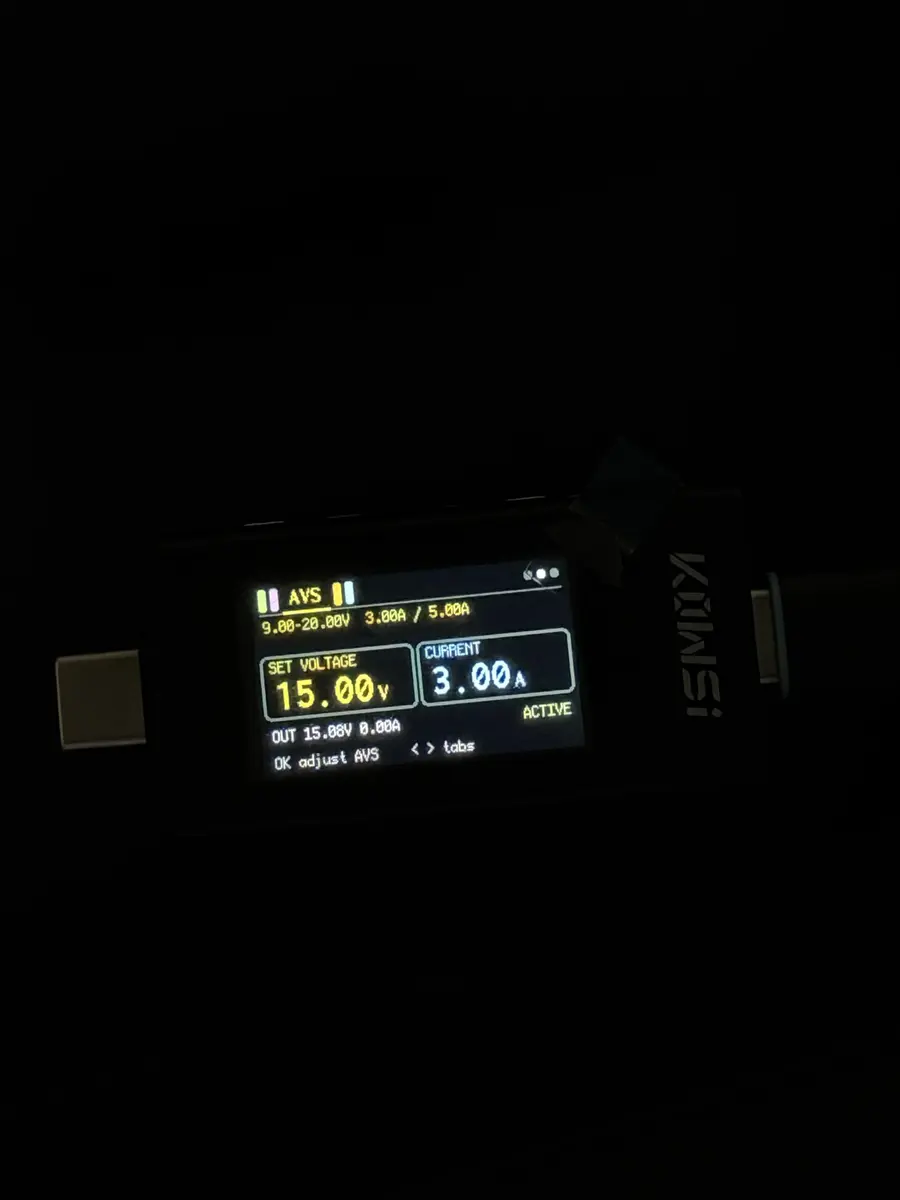
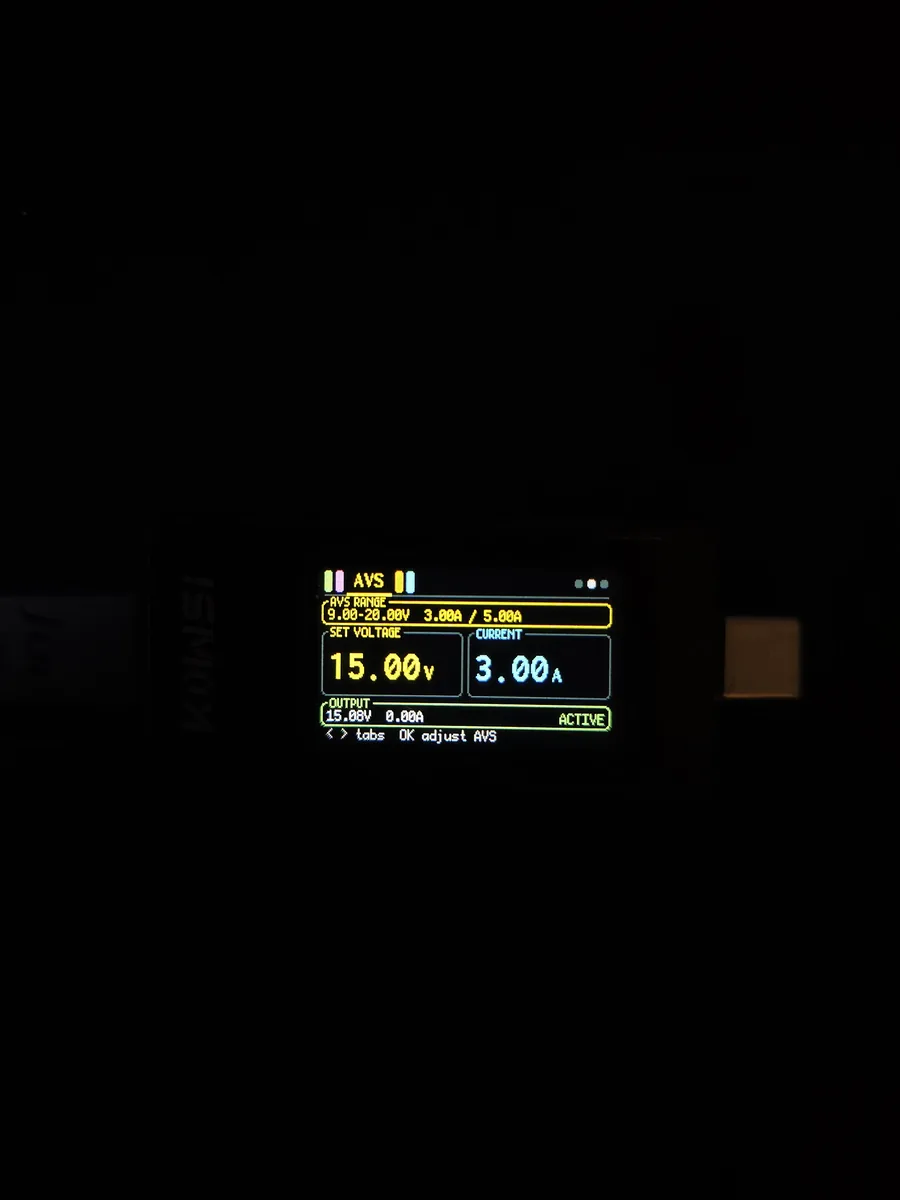
docs: retake the screen photos and fix stale readme details

Changed region(s): [[0.28, 0.4625, 0.6844, 0.6475], [0.7467, 0.4625, 0.9022, 0.6167], [0.0622, 0.5242, 0.1867, 0.6475]]

diff --git a/README.md b/README.md
@@ -106,7 +106,10 @@ This is **kws-x1-standalone-rs**.
 - Passthrough mode: listens to the PD messages between a charger and a device
   without taking part.
 - Brightness and auto-rotation, saved to flash.
-- Ah/Wh totals on every page, with optional energy memory: Off, 5s, 10s, 30s or 60s.
+- Charge (Ah), energy (Wh) and the time since the last reset, counted
+  whichever page shows, and optionally kept across restarts (energy memory:
+  Off, 5s, 10s, 30s or 60s).
+- A power, voltage or current graph over the last 1, 2, 5 or 10 minutes.
 
 ## Limitations
 
@@ -122,9 +125,7 @@ What this firmware does **not** do, for now:
   AVS up to 30 V can be selected with a real EPR cable. Fixed 36/48 V remain
   informational only. The fake marker remains 20 V/non-EPR. Keep-alive timing
   under display load still requires hardware verification.
-- **SPR AVS lightly tested, the battery readout untested.** A user
-  confirmed an SPR AVS contract on one charger (9-20 V range, 15 V set,
-  `ACTIVE`, no load). The battery readout is built from the USB PD 3.2
+- **The battery readout is untested.** It is built from the USB PD 3.2
   specification and checked in the library tests, but no battery-reporting
   power bank has been tried yet.
 - **Quick Charge partly tested.** Tested on one Quick Charge 3.0 Class A
@@ -144,8 +145,9 @@ What this firmware does **not** do, for now:
 - **The 5 A cable test is non-standard**, and works only with the meter's plug
   straight in the charger. See
   [Full charger offer and 5 A without a cable](#full-charger-offer-and-5-a-without-a-cable).
-- **No timer, no recording**, and no USB data connection to a computer or
-  app.
+- **No recording.** The graph keeps ten minutes in RAM only; nothing is
+  logged to flash or exported, and there is no USB data connection to a
+  computer or app.
 - **No calibration setting.** The measurement uses a fixed sensor calibration.
   The line voltages use an internal reference of 1083 mV, the stock
   firmware's value, rather than the reference manual's "about 1.1 V"
@@ -222,7 +224,7 @@ point the way it flows (they follow the screen rotation).
 
 | Page | Shows | Buttons |
 | ---- | ----- | ------- |
-| **Overview** | voltage, current, power; the highest of each since boot (`MAX`); protocol (`USB`, `TYPE-C`, `PD 2.0`, `PD 3.0`, `PPS`, `AVS`, `QC 2.0`, `QC 3.0`, `DIVIDER`, `1.2V DCP`, `BC1.2`) with the CC pin and contract; flow chevrons; a heartbeat dot | hold OK: reset `MAX`; Back: settings |
+| **Overview** | voltage, current, power; the highest of each since boot while a live page shows (`MAX`); protocol (`USB`, `TYPE-C`, `PD 2.0`, `PD 3.0`, `PPS`, `AVS`, `QC 2.0`, `QC 3.0`, `DIVIDER`, `1.2V DCP`, `BC1.2`) with the CC pin and contract; flow chevrons; a heartbeat dot | hold OK: reset `MAX`; Back: settings |
 | **Lines** | D+, D-, CC1 and CC2 voltages | |
 | **Energy** | charge (Ah), energy (Wh) and the time since the last reset; how the totals are kept | hold OK: reset the totals |
 | **Graph** | power, voltage or current over the last 1, 2, 5 or 10 minutes; the latest second's and the window's highest voltage, current and power | OK, Left/Right choose power, voltage or current, OK, Left/Right change the window, OK done; Back closes; hold OK: clear the graph |
@@ -310,8 +312,9 @@ While Left/Right move between groups, every hint row reads
 `< > groups  OK tabs`. The scrolling screens (PD Session, Charger, Cable,
 System, PD Sniff) share one hint row: `< > tabs  OK scroll`, then
 `< > scroll  OK done` while scrolling, or `< > tabs  BACK groups` when
-everything fits on one screen. Charger and Cable add their hold action:
-`hold OK scan` and `hold OK read`.
+everything fits on one screen. Charger and Cable add their hold action,
+`hold OK scan` and `hold OK read`, which replaces `BACK groups` when
+everything fits.
 
 Every hint row lists its buttons in the same order: Left/Right first, then
 OK, then a hold or Back, then any note, so on a tab it always starts with
@@ -332,8 +335,10 @@ use in the `PROTOCOL` strip along the bottom. The meter starts on it.
 - **`CURRENT`**: current in amperes, as a magnitude, whichever way it flows.
 - **`POWER`**: voltage × current, in watts.
 - **`MAX`**: the highest voltage, current and power seen since power-up or
-  the last reset. Hold OK: the card fills from left to right and the values
-  reset once it is full; let go earlier to keep them.
+  the last reset, counted while the overview, the graph or a Trigger page
+  shows (the pages with live readings). Hold OK: the card fills from left
+  to right and the values reset once it is full; let go earlier to keep
+  them.
 - **Protocol** (left in the `PROTOCOL` strip, which takes its colour): the
   first of these that applies.
   - `QC 2.0` / `QC 3.0`: this meter's Quick Charge request, while the
@@ -390,7 +395,9 @@ screen shows, or while Quick Charge runs.
   measured on one unit, and another unit's may differ by a few percent (see
   [Limitations](#limitations)).
 
-#### Energy
+#### 3. Energy
+
+<img src="pictures/energy_screen.webp" width="360" alt="Energy screen">
 
 The **Energy** screen (tab `ENERGY` in Monitor, after Lines) shows, in three
 outlined cards, **CHARGE** in Ah and **ENERGY** in Wh, with three decimals, and
@@ -405,7 +412,9 @@ checkpoint interval), `flash taken` or `save failed`, for example
 `< > tabs  hold OK reset  save 5s`. To start fresh, hold OK: the cards fill
 from left to right and reset once full.
 
-#### Graph
+#### 4. Graph
+
+<img src="pictures/graph_screen.webp" width="360" alt="Graph screen">
 
 The **Graph** screen (tab `GRAPH` in Monitor, after Energy) plots power
 (at first, green), voltage (yellow) or current (cyan) over the last
@@ -434,7 +443,7 @@ covers, so a short peak stays visible.
 The history is kept in RAM only (ten minutes, about 7 KB): it costs no
 flash writes, and a restart clears it and comes back on the overview.
 
-#### 3. PD Profiles
+#### 5. PD Profiles
 
 <img src="pictures/pd_profiles_screen.webp" width="360" alt="PD Profiles screen">
 
@@ -462,7 +471,7 @@ charger's fixed profiles, to request one.
   `EPR: unknown failure`, `EPR: timeout / bad reply` or
   `EPR: line busy, retry OK`.
 
-#### 4. PPS
+#### 6. PPS
 
 <img src="pictures/pps_screen.webp" width="360" alt="PPS screen">
 
@@ -472,7 +481,8 @@ programmable ranges, to request a voltage and current limit.
 - **`PPS RANGE`**: each PPS range the charger offers, a line each (the card
   takes one or two), for example `3.30-21.00V  up to 5.00A`.
 - **`SET VOLTAGE`**: the voltage to request, in 20 mV steps (100 mV while
-  held), from the bottom of the charger's range (often 3.3 V) to its top. The arrows show it is the value Left/Right change.
+  held), from the bottom of the charger's range (often 3.3 V) to its top.
+  The arrows show it is the value Left/Right change.
 - **`CURRENT LIMIT`**: the current limit to request, in 50 mA steps (250 mA
   while held).
 - **`OUTPUT`**: the live voltage and current, then on the right the state:
@@ -484,11 +494,9 @@ programmable ranges, to request a voltage and current limit.
   `< > amps  OK request`, or `< > tabs  waiting for the charger`; in
   `QC MODE`, `< > tabs  OK switch back to PD`.
 
-#### 5. AVS
+#### 7. AVS
 
 <img src="pictures/avs_screen.webp" width="360" alt="AVS screen">
-
-Photo thanks to [u/kurisutiano](https://www.reddit.com/user/kurisutiano/).
 
 This is the **AVS** screen (tab `AVS` in Trigger): the charger's
 adjustable voltage ranges (USB PD 3.2), to request a voltage. Unlike PPS, the
@@ -510,7 +518,7 @@ allows at the set voltage. SPR AVS runs from 9 V, at most 100 W; EPR AVS from
   `< > tabs  waiting for the charger`; in `QC MODE`,
   `< > tabs  OK switch back to PD`.
 
-#### 6. QC 2.0
+#### 8. QC 2.0
 
 <img src="pictures/qc2_screen.webp" width="360" alt="QC 2.0 screen">
 
@@ -542,7 +550,7 @@ the requests.
   `BACK stop  up to 20V on the output` (`BACK` once it failed); in
   `PD MODE`, `< > tabs  OK switch to QC, up to 20V`.
 
-#### 7. QC 3.0
+#### 9. QC 3.0
 
 <img src="pictures/qc3_screen.webp" width="360" alt="QC 3.0 screen">
 
@@ -566,7 +574,7 @@ screen; see [Quick Charge](#quick-charge).
   handshake, test and `PD MODE` hints as on the QC 2.0 screen, and `< > tabs`
   after `NO QC 3.0`.
 
-#### 8. PD Session
+#### 10. PD Session
 
 <img src="pictures/pd_session_screen.webp" width="360" alt="PD Session screen">
 
@@ -673,7 +681,7 @@ own PD negotiation. It scrolls (OK) through three sections.
 | `002B` | session ended without a contract |
 | `002C` | Hard Reset sent |
 
-#### 9. Charger
+#### 11. Charger
 
 <img src="pictures/charger_screen.webp" width="360" alt="Charger screen">
 
@@ -704,7 +712,7 @@ scrolls (OK) through the parts; a long offer takes two screens.
     names the reset cause (`POWER` is expected).
   - `5A TEST DID NOT START` / `HOLD OK TO TRY AGAIN`.
   - The `EPR: …` states listed under the
-    [PD Profiles](#3-pd-profiles) hint row.
+    [PD Profiles](#5-pd-profiles) hint row.
   - `NO PD SESSION`, `NO OFFER YET`.
 - **`KEEP:---- GAP:----MS`** (last row, in EPR mode): how many keep-alives
   the meter sent, and the longest gap between two PD messages it saw, in ms.
@@ -773,7 +781,7 @@ first battery, as the charger describes it.
 **Answer words** used in these sections: `OK`, `WAITING`, `NOT SUPPORTED`,
 `NO REPLY`, `BLOCKED`, `RESET`, `PD2 N/A` (not available under PD 2.0).
 
-#### 10. Cable
+#### 12. Cable
 
 <img src="pictures/cable_screen.webp" width="360" alt="Cable screen">
 
@@ -821,12 +829,12 @@ GET_STATUS`, `SECOND PLUG NO DATA`).
 **Status words**: `NOT QUERIED`, `ACK`, `NAK`, `BUSY NO RETRY`,
 `TIMEOUT NO RETRY`, `LIST INCOMPLETE`, `NOT SUPPORTED`.
 
-#### 11. System
+#### 13. System
 
 <img src="pictures/system_screen.webp" width="360" alt="System screen">
 
 This is the **System** screen (tab `SYSTEM` in Info): the meter's own health.
-It scrolls (OK) through two sections.
+It scrolls (OK) through three sections.
 
 **Sensor bus**
 
@@ -857,12 +865,19 @@ It scrolls (OK) through two sections.
   `MPU`, `RAMPAR`, `RAMECC`, `CLOCK`, `XTAL`, `MULTI`. After a plain plug-in
   only `POWER` is set.
 
+**`FLASH STORAGE`** (read-only)
+
+- **`ERR 00 AT 00000`**: the last failing flash operation this boot, its
+  error flags and start address (see [What is saved](#what-is-saved)).
+- **One row per storage sector**: its address, first word, and `FREE` with
+  how many words are erased (`FREE 0800` means an entirely blank sector).
+
 #### Settings
 
 <img src="pictures/settings_screen.webp" width="360" alt="Settings screen">
 
 This is the **Settings** screen (Back on the overview): display preferences
-and energy persistence. The photo predates the current rows.
+and energy persistence.
 
 - **`BRIGHTNESS`**: five bars, 20%, 40%, 60%, 80% and 95%. Saved; the backlight
   starts at the restored level, not always the default 60%.
@@ -888,9 +903,11 @@ Energy, Graph and System screens read as in sink mode.
 
 <img src="pictures/passthrough_overview_screen.webp" width="360" alt="Overview screen in passthrough">
 
-This is the **Overview** screen (tab `OVERVIEW` in Monitor) while a charger
-and a phone negotiate through the meter. The badge and status (`PD 3.0`,
-`CC2 9V 3.00A`) come from the messages the meter overheard, and the chevrons
+This is the **Overview** screen (tab `OVERVIEW` in Monitor) with a charger
+and a device on either side of the meter. The protocol and status come from
+the messages the meter overheard: in the photo the charger has sent its
+offer and no contract has followed yet (`PD`, `CC1 offer, 5V`); once the
+device requests one it reads like `PD 3.0`, `CC2 9V 3.00A`. The chevrons
 show which way power flows.
 
 #### 2. PD Sniff
@@ -1103,11 +1120,15 @@ Sink (slider at sink, then power up from a PD charger through a cable):
 
 3. The overview shows voltage, current and the flow chevrons. Tilt the meter:
    with rotation on auto, the screen follows, and Left and Right swap with
-   it. OK, Right: the lines page updates
+   it. On the overview, hold OK: `MAX` resets once the card has filled.
+   OK, Right: the lines page updates
    D+, D-, CC1 and CC2, and the CC pin the overview names reads above 0 V.
    Compare the values with a multimeter where the lines are reachable.
+   Right: Energy counts up under load. Right: Graph plots the last minutes;
+   OK and Left/Right switch the trace and window.
 4. Settings (Back on the overview): change brightness and rotation, then
-   unplug and plug in again. Both are kept. Reset peaks clears them.
+   unplug and plug in again. Both are kept. With energy memory on, the
+   Energy totals and time come back too.
 5. PD Profiles page (Trigger group, OK to reach its tabs): step through the
    profiles, confirm one, check the overview voltage, then go back to 5 V.
 6. PPS page (PPS charger): step voltage and current, confirm, check the
@@ -1163,7 +1184,8 @@ crates.io patch is needed. `fusb302-pd` has no controller driver dependency: its
 register map, bit fields and FIFO tokens come directly from the data sheet below.
 
 - `firmware/`: startup, peripheral ownership, async tasks, meter/UI and PD routing.
-- `firmware-core/`: board limits, buttons and panel geometry.
+- `firmware-core/`: board limits, buttons and navigation, panel geometry,
+  settings records, and the energy totals and graph history.
 - `firmware-image/`: shared container layout, builder, checksum validation and
   the self-unpacking release format.
 - `firmware-pack/`: host-only Rust release packing and auditing.
@@ -1267,7 +1289,8 @@ with synthetic files. They never discover or open a device.
 
 Diagnostic features are opt-in: `pd-hold-diagnostic` holds Rd without a sink
 session; `pd-boot-diagnostic` boots on the PD page and records progress;
-`cable-log` records cable inspection/fatal events; `i2c-rx-poll-diagnostic`
+`cable-log` records cable inspection/fatal events; `flash-probe` adds
+read-only flash sections to the System page; `i2c-rx-poll-diagnostic`
 enables the HAL's receive diagnostic. Flash logging writes persistent storage,
 so diagnostic images are not interchangeable with the normal build.
 
